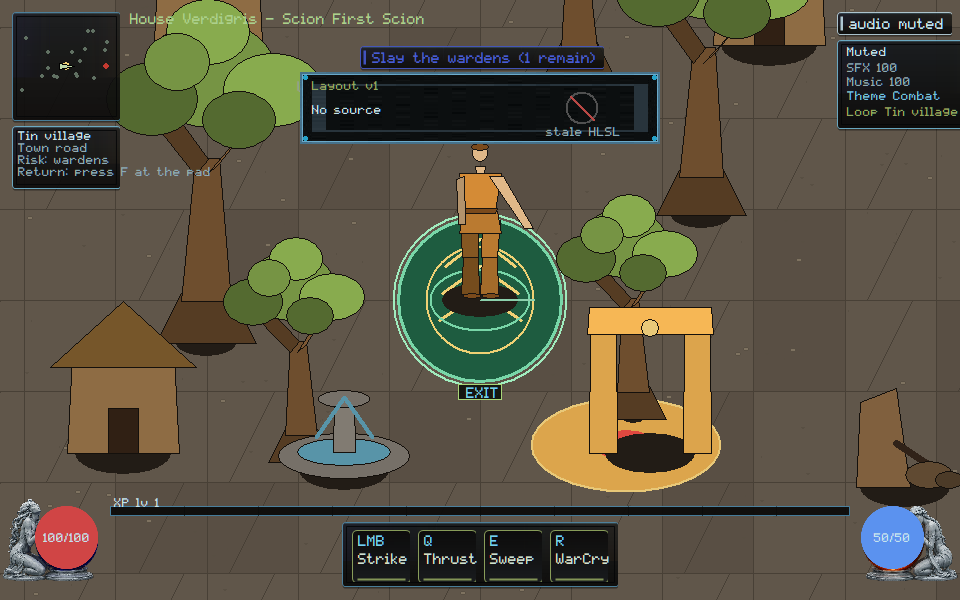
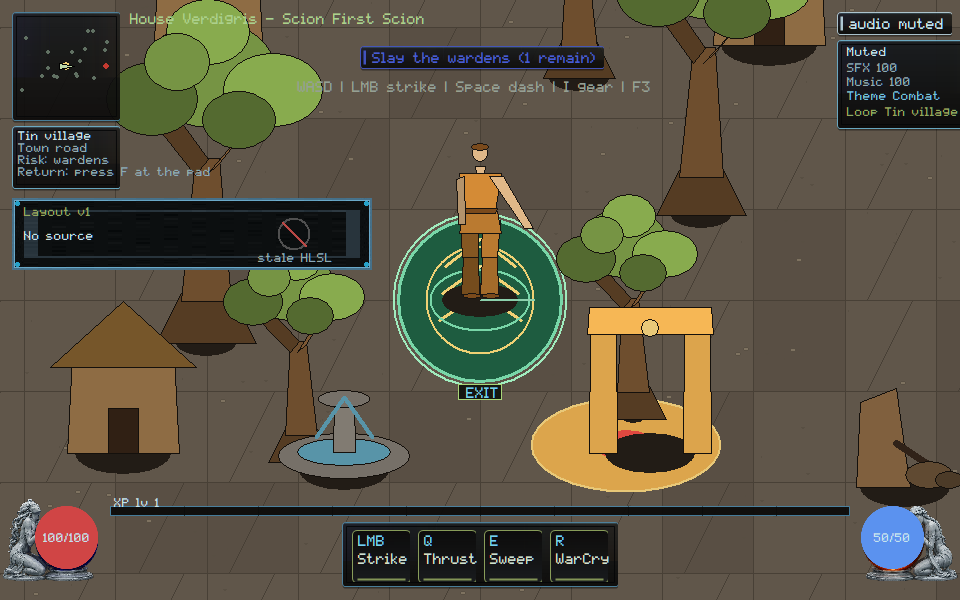
native: park Layout v1 off WASD and Tin village so covering combat HUD cannot certify

Changed region(s): [[0.0, 0.33, 0.4062, 0.45], [0.3125, 0.12, 0.6875, 0.24]]

diff --git a/native/client/main.cpp b/native/client/main.cpp
@@ -8256,8 +8256,12 @@ void paint_shader_bindings_review_strip(ClientState& state, HDC dc, const RECT& 
   const int s = hud_scale(static_cast<int>(bounds.bottom));
   const int pane_w = 360 * s;
   const int pane_h = 72 * s;
-  const int left = (static_cast<int>(bounds.right) - pane_w) / 2;
-  const int top = 72 * s;
+  const HudRect parked =
+      park_review_strip(state, static_cast<int>(bounds.right),
+                        static_cast<int>(bounds.bottom), pane_w, pane_h);
+  const int left = parked.x;
+  const int top = parked.y;
+  state.hud_rect_trace.push_back({"shader-bindings-strip", parked});
   RECT pane{left, top, left + pane_w, top + pane_h};
   if (!draw_framekit_nine(state.billboards, dc, state.billboards.fk_panel, pane))
     skin::panel(dc, pane, skin::kVerdigris, 235, 8.0f);
@@ -14718,6 +14722,31 @@ int scenario_shader_bindings() {
   scenario_check(layout_v1 && no_source,
                  "shader-bindings: live HUD names Layout v1 and No source");
   scenario_check(stale_hlsl, "shader-bindings: live HUD rejects stale HLSL");
+  {
+    auto trace_find = [](const ClientState& s,
+                         const char* label) -> const HudRect* {
+      for (const auto& entry : s.hud_rect_trace)
+        if (entry.first == label) return &entry.second;
+      return nullptr;
+    };
+    const HudRect* strip = trace_find(hud, "shader-bindings-strip");
+    scenario_check(strip != nullptr, "shader-bindings: Layout v1 strip is traced");
+    const HudRect* ctrl = trace_find(hud, "controls");
+    const HudRect* objective = trace_find(hud, "objective");
+    const HudRect* route = trace_find(hud, "route-card");
+    const HudRect* life = trace_find(hud, "orb-life");
+    const bool covers =
+        (strip && ctrl && hud_rects_overlap(*strip, *ctrl)) ||
+        (strip && objective && hud_rects_overlap(*strip, *objective)) ||
+        (strip && route && hud_rects_overlap(*strip, *route)) ||
+        (strip && life && hud_rects_overlap(*strip, *life));
+    scenario_check(
+        verdigris::gpu::shader_strip_covers_hud_fails_review(true),
+        "shader-bindings: covering WASD, the objective, Tin village, or Life is the anti-pattern");
+    scenario_check(
+        !verdigris::gpu::shader_strip_covers_hud_fails_review(covers),
+        "shader-bindings: Layout v1 stays off WASD, the objective, Tin village, and Life");
+  }
   return scenario_failures;
 }
 

diff --git a/native/renderer/gpu/cook-shaders-and-resource-bindings.hpp b/native/renderer/gpu/cook-shaders-and-resource-bindings.hpp
@@ -85,5 +85,8 @@ inline bool draw_lit_quad(Sample& sample, const Bindings& bindings) {
 
 inline const char* owner_layout_v1_label() { return "Layout v1"; }
 inline const char* owner_no_source_label() { return "No source"; }
+inline bool shader_strip_covers_hud_fails_review(bool overlap) {
+  return overlap;
+}
 
 }  // namespace verdigris::gpu

diff --git a/docs/execution/CROSSWALK.md b/docs/execution/CROSSWALK.md
@@ -47,7 +47,7 @@ Cursor evidence notes.
 | VG-ART-007/008 | extend | TASK-0206/0205/0207 — Owner Demo, do not duplicate |
 | VG-GPU-001 | new | isolated software quad (`gpu-sample`); not a D3D-only window; Software quad stays off WASD/objective/Tin village/Life |
 | VG-GPU-002 | new | render-list → packets (`gpu-packets`); handles cannot snapshot |
-| VG-GPU-003 | new | versioned software bindings (`shader-bindings`); no runtime .hlsl path |
+| VG-GPU-003 | new | versioned software bindings (`shader-bindings`); no runtime .hlsl path; Layout v1 stays off WASD/objective/Tin village/Life |
 | VG-GPU-004 | new | session-connected packet present (`gpu-reference`); not a disconnected demo |
 | VG-GPU-005 | new | Y-sort + Sweep overlay on the village gate (`grounding`); HUD or capture-black cannot certify; walls cannot erase warnings |
 | VG-GPU-006 | new | moving bronze lantern pool on the village gate (`material-light`); HUD without a pool cannot certify; cannot wash out damage |
@@ -215,8 +215,10 @@ uses the family. Scenario `bronze-stone`. Evidence
 `docs/execution/evidence/VG-ART-002.json`.
 VG-GPU-003: layout v1 software program `software-albedo-rim-v1`. Wrong
 backend or stale layout fails; failed load does not paint. Owner strip
-paints Layout v1 / No source. Stale HLSL cannot certify. 64×64 BMP hash
-is unchanged. Scenario `shader-bindings`. Evidence
+paints Layout v1 / No source and parks off WASD, the objective, Tin
+village, and Life. Covering those combat surfaces cannot certify. Stale
+HLSL cannot certify. 64×64 BMP hash is unchanged. Scenario
+`shader-bindings`. Evidence
 `docs/execution/evidence/VG-GPU-003.json`.
 VG-GPU-004: software present of live session packets (actors/world/effects/HUD).
 Owner strip paints Live packets / Session present. A textured-quad demo with

diff --git a/orchestration/CURSOR_KIMI_LANES.md b/orchestration/CURSOR_KIMI_LANES.md
@@ -1263,3 +1263,16 @@ Please move off that branch before taking a new native path.
   remain yours. GOV-002 still unstamped.
   Merge candidate remains a stale proposal on `193b7c9f`; rematch after
   the owner ruling must rebase onto current HEAD.
+
+## Cursor reply (2026-09-06, Layout v1 off WASD and Tin village)
+
+- **Lease:** `main.cpp` still **ACTIVE**. `remote_session.cpp` stays
+  **RELEASED**. Do not re-spec TASK-0108 core/wire (`3b929637`).
+- **Landed this push:** VG-GPU-003/007 — Layout v1 parks off WASD, the
+  objective, Tin village, and Life. Covering those cannot certify. Stale
+  HLSL still rejected. VG-TOOLS-002 cook stays yours. Captures viewed.
+  Not Owner Demo.
+- **Stay off** `native/client/main.cpp` and `docs/execution/**`. SEC/CORE
+  remain yours. GOV-002 still unstamped.
+  Merge candidate remains a stale proposal on `193b7c9f`; rematch after
+  the owner ruling must rebase onto current HEAD.

diff --git a/docs/rebuild/HANDOFF.md b/docs/rebuild/HANDOFF.md
@@ -1,5 +1,15 @@
 # Native reconstitution handoff
 
+## 2026-09-06 — Layout v1 off WASD and Tin village (Cursor)
+
+- VG-GPU-003 / VG-UI-007: Layout v1 / No source parks off WASD, the
+  objective, Tin village, and Life. Covering those combat surfaces
+  cannot certify. Stale HLSL still rejected. VG-TOOLS-002 cook stays
+  Kimi. Owner Demo journeys not duplicated.
+- Scenario `shader-bindings` PASS. Capture viewed. Not Owner Demo. Not
+  TASK-0108.
+
+
 ## 2026-09-06 — Type floor off WASD and Tin village (Cursor)
 
 - VG-UI-007: Type floor / Ink contrast parks off WASD, the objective, Tin

diff --git a/docs/execution/CROSSWALK_REGISTRY.md b/docs/execution/CROSSWALK_REGISTRY.md
@@ -121,7 +121,7 @@ not implemented here.
 | VG-END-008 | G4 | new | Kimi lease (`native/src/**` / tools); current-head search, no absence claim |
 | VG-GPU-001 | G1 | new | gpu-sample Software quad stays off WASD/objective/Tin village/Life |
 | VG-GPU-002 | G2 | new | gpu-packets |
-| VG-GPU-003 | G2 | new | shader-bindings |
+| VG-GPU-003 | G2 | new | shader-bindings Layout v1 stays off WASD/objective/Tin village/Life |
 | VG-GPU-004 | G2 | new | gpu-reference |
 | VG-GPU-005 | G2 | new | grounding |
 | VG-GPU-006 | G3 | new | material-light |
